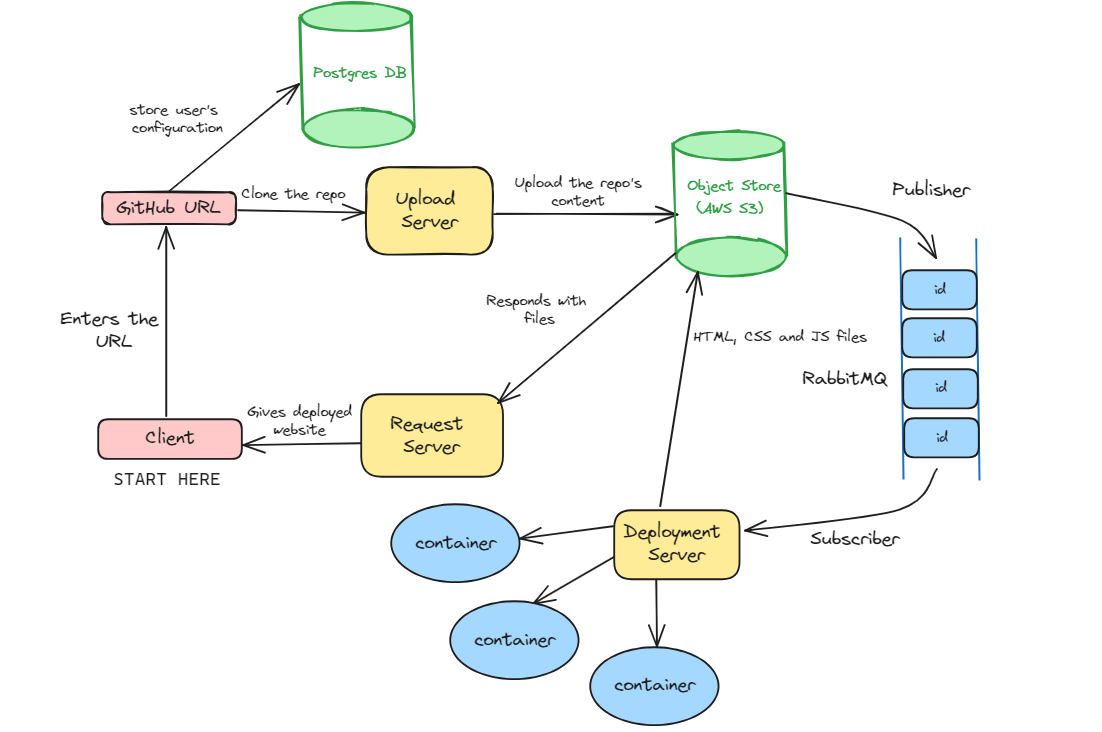
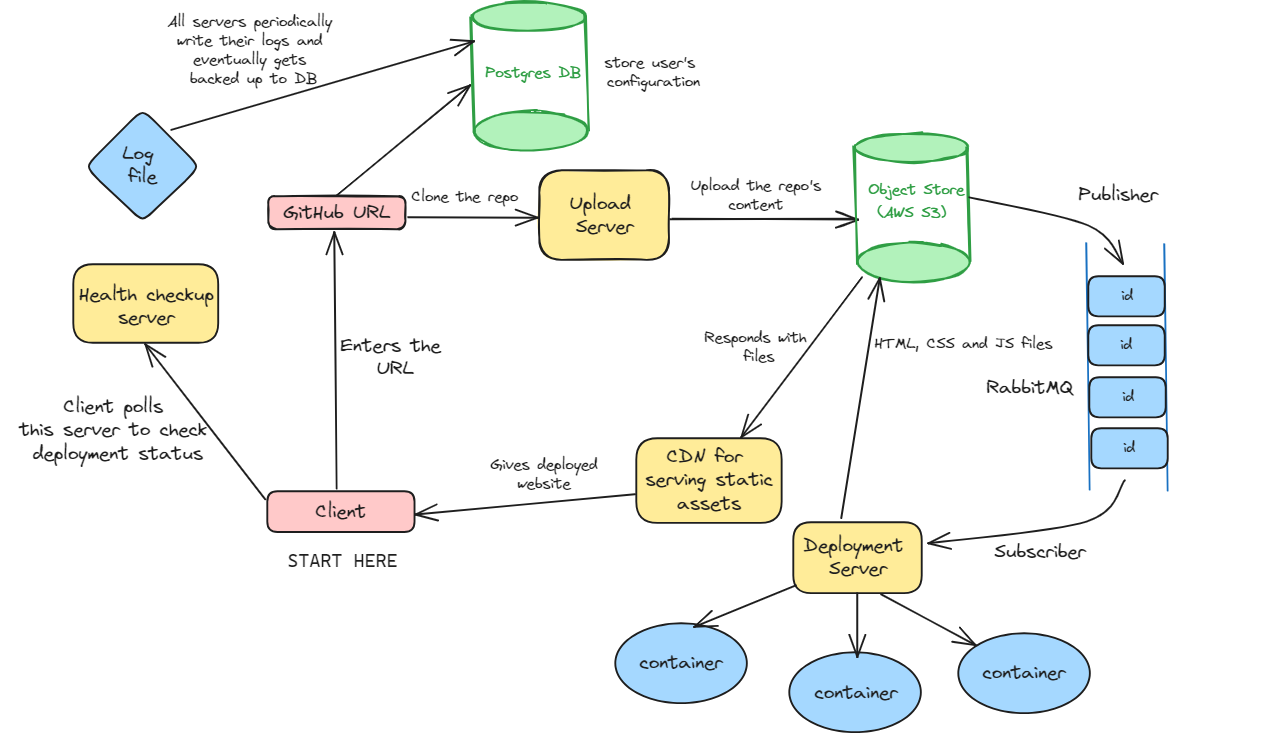
fix docs

diff --git a/frontend/src/components/utils/Status.tsx b/frontend/src/components/utils/Status.tsx
@@ -17,24 +17,26 @@ export interface StatusProps {
 export default function Status({ projectId }: StatusProps) {
     const [loading, setLoading] = useState<Boolean>(true);
 
-    // async function pollStatus() {
-    //     try {
-    //         const response = await axios.get(`localhost:4000/${projectId}`);
-    //         if (response.status === 102) {
-    //             setLoading(true);
-    //         } else if (response.status === 200) {
-    //             setLoading(false);
-    //         }
-    //     } catch(err) {
-    //         alert('Error occured, please deploy your application again');
-    //     }
-    // }
+    async function pollStatus() {
+        try {
+            const response = await axios.get(`http://localhost:4000/${projectId}`);
+            console.log(response);
+            if (response.status === 102) {
+                setLoading(true);
+            } else if (response.status === 200) {
+                setLoading(false);
+            }
+        } catch(err) {
+            console.error(err);
+            //alert('Error occured, please deploy your application again');
+        }
+    }
 
-    // useEffect(() => {
-    //     pollStatus();
-    //     const intervalId = setInterval(pollStatus, 5000);
-    //     return () => clearInterval(intervalId);
-    // }, [projectId]);
+    useEffect(() => {
+        pollStatus();
+        const intervalId = setInterval(pollStatus, 5000);
+        return () => clearInterval(intervalId);
+    }, [projectId]);
     
     return (
         <div className="flex font-semibold border border-gray-700 h-10 w-40 justify-center items-center rounded-lg bg-white text-gray-500 pr-4 pl-4">

diff --git a/upload/src/routes/upload.ts b/upload/src/routes/upload.ts
@@ -8,7 +8,7 @@ import { exec } from 'child_process';
 import path from 'path'
 import fs from 'fs'
 import { configurationSchema } from '../zod/validate';
-import { PrismaClient } from '../../../db/node_modules/.prisma/client'
+import { PrismaClient } from '../../../db/node_modules/.prisma/client';
 
 const uploadRouter = Router()
 const prisma = new PrismaClient()
@@ -17,7 +17,6 @@ uploadRouter.post('/upload', async (req, res) => {
     const inputURL = req.body;
     try {
         const urlResult = configurationSchema.safeParse(inputURL);
-
         if (urlResult.success === false) {
             res.status(403).json({
                 msg: "Invalid input"
@@ -29,7 +28,7 @@ uploadRouter.post('/upload', async (req, res) => {
             const len = splitURL.length
             const username = splitURL[len - 2]
             const projectName = splitURL[len - 1].replace('.git', '')
-
+            
             const size = await getRepoSize(username, projectName);
             if (parseInt(size) > 1024 * 1024) {
                 res.status(414).json({ "msg": "File size is too large "});
@@ -43,7 +42,7 @@ uploadRouter.post('/upload', async (req, res) => {
             // this command checks if the repository size is too large to be cloned or not
             exec(`cmd /c "${shellPath}" "${username}" "${projectName}"`);
             const logger = createLogger(uploadUUID);
-
+            
             logger.info(`Starting upload process for ${uploadUUID}`);
             // stores the project configuration in the database
             await prisma.projects.create({

diff --git a/webhook/src/app.ts b/webhook/src/app.ts
@@ -1,16 +1,20 @@
 import express from 'express';
 import { S3 } from 'aws-sdk';
 import dotenv from 'dotenv';
+import axios from 'axios';
+import fs from 'fs';
+import { PrismaClient } from '../../db/node_modules/.prisma/client' 
 
 dotenv.config({ path: '../.env' });
 const app = express();
-const PORT = 4000;
+const PORT = 7000;
 
 const s3Client = new S3({
     accessKeyId: process.env.AWS_ACCESS_KEY_ID ?? "",
     secretAccessKey: process.env.AWS_SECRET_ACCESS_KEY ?? "",
     endpoint: process.env.AWS_URL ?? "",
 });
+const prisma = new PrismaClient();
 
 app.use(async (req, res) => {
     const hostname = req.hostname;
@@ -28,6 +32,24 @@ app.use(async (req, res) => {
 
         res.setHeader('Content-Type', data.ContentType || 'application/octet-stream');
         res.send(data.Body);
+        // update status
+        await axios.post(`http://localhost:4000/${subDomain}`, {
+            status: 'done'
+        });
+        const logs = fs.readFileSync(`../logs/${subDomain}.log`, 'utf8');
+        await prisma.projects.update({
+            where: {
+                id: subDomain
+            },
+            data: {
+                logs: logs
+            }
+        })
+        // remove the file after updating
+        await fs.rmSync(`./../logs/${subDomain}.log`, {
+            force: true
+        });
+        console.log(`Added logs to the database for ${subDomain}`);
     } catch (error: any) {
         console.error(`Error fetching ${s3Key}:`, error);
         if (error.code === 'NoSuchKey') {

diff --git a/health/src/app.ts b/health/src/app.ts
@@ -12,8 +12,7 @@ app.get('/:id', (req, res) => {
         if (status === 'done') {
             fs.unlinkSync(`../logs/${id}.log`);
             res.status(200).json({ message: 'Website is ready to view' });
-        } else {
-            fs.appendFileSync(`../logs/${id}.log`, `${new Date().toISOString()}: ${status}\n`);
+        } else if (!status) {
             res.status(102).json({ message: 'Website is being built' });
         }
     } catch(err) {

diff --git a/frontend/src/components/pages/Configuration.tsx b/frontend/src/components/pages/Configuration.tsx
@@ -51,6 +51,7 @@ export default function Configuration() {
   });
 
   const { toast } = useToast()
+  const [submitted, setSubmitted] = useState<Boolean>(false);
 
   async function onSubmit(values: z.infer<typeof formSchema>) {
     try {

diff --git a/sys-design/README.md b/sys-design/README.md
@@ -13,8 +13,18 @@
 - Building process is run inside a docker container for security reasons. Server can spin containers up and down at it's will.
 - The converted files are sent back to S3 for storage.
 
-## Request-Response Server
-- After deployment is complete, the server retrieves the files from S3 and sends it to client.
+## Request-Response Webhook
+- After deployment is complete, the server retrieves the files and static assets from S3 and sends it to client.
+
+## Health status server
+- This server is polled by the client at regular intervals to check if the project is building or not.
+- This service essentially reads from the log file and notifies the client when the project is ready to be viewed.
 
 ## PotgreSQL
-- Will store the user's project configuration details like the output folder, the build command, package manager etc.
+- Chose Postgres because this is a project with lesser reads and more writes and Postgres is good at this functionality.
+- Will store the user's project configuration details like the output folder, the installation command, the build command etc.
+- This will help the user view the project logs for the specific ``id`` in the future as well.
+
+## Log File
+- This will contain logs of the project's build and deployment process.
+- And it will get uploaded to the database as well.

diff --git a/README.md b/README.md
@@ -22,6 +22,20 @@ git clone https://github.com/<your-username>/Nebula-Nest.git
 - Go into `frontend/` directory.
 - Run ``npm install`` to install the dependencies and then run ``npm run dev`` to start the frontend.
 
+
+## Screenshots
+**HOME PAGE** <br />
+
+![Home Page](./assets/home.png)
+
+**DETAILS PAGE** (where you can set the configuration for the project) <br />
+
+![Dashboard Page](./assets/details.png)
+
+**DEPLOYMENT LOGS** <br />
+
+![Logs Page](./assets/logs.png)
+
 ## Tech Stack
 ### Frontend
 - React as the web framework.
@@ -32,16 +46,6 @@ git clone https://github.com/<your-username>/Nebula-Nest.git
 - PostgreSQL as the database.
 - RabbitMQ for message queueing.
 - Docker for sandboxing.
-
-## Screenshots
-Home Page <br />
-
-![Home Page](./assets/home.png)
-
-Details Page (where you can set the configuration for the project) <br />
-
-![Dashboard Page](./assets/details.png)
-
 
 ## License
 The project is licensed under MIT License.
